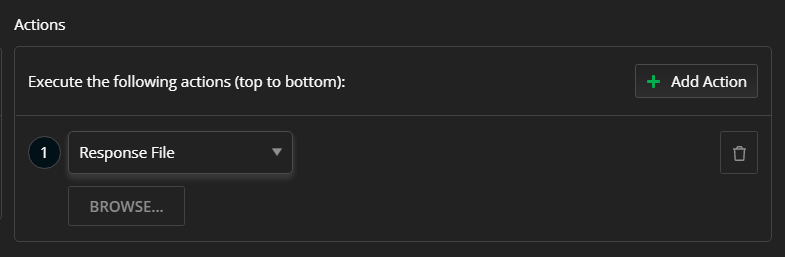
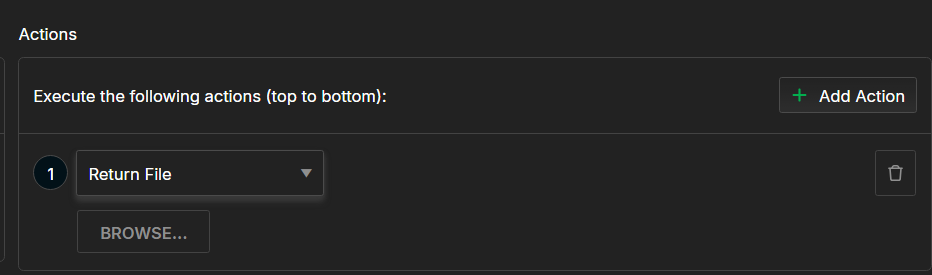
docs: breakpoints (#436)
* docs: breakpoints

* docs: improve content related to breakpoints

* Update knowledge-base/create-a-rule-to-disable-cache.md

* docs: regex update

* doc: extending the breakpoints articles

---------

diff --git a/modify-and-filter-traffic/breakpoints.md b/modify-and-filter-traffic/breakpoints.md
@@ -1,0 +1,107 @@
+---
+title: Using Breakpoints to Pause Traffic
+description: "Pausing network traffic through breakpoint actions in Fiddler Everywhere"
+slug: rulesbuilder-breakpoints
+publish: true
+position: 30
+---
+
+
+# Breakpoints in Fiddler Everywhere
+
+The **Rules** functionality in Fiddler Everywhere is a sophisticated tool that lets you virtually play with the ongoing traffic in any way possible. With its help, you can easily adjust the ongoing traffic per your requirements by matching all or specific sessions and consequentially applying specific actions that vary from simply highlighting and commenting entries (for easier inspection and analysis) to changing the content and behavior of HTTP Requests (before they reach the target server) or HTTP Responses (before they reach the client application).
+
+Being able to "hack" an HTTP session on the fly provides almost unlimited testing and development opportunities. This article will demonstrate some more complex actions that can be used while using the Fiddler's breakpoints rule action.
+
+
+## Using Breakpoints
+
+One of the most desired features was the ability to pause the execution of a session before it reaches the server or the client application. Fiddler Everywhere provides that option through the **Set Breakpoint** action and its two sub-actions **Before Sending a Request** and **Before Sending and Response**.
+
+Fiddler Everywhere stands between the client application (that sends a request and receives a response) and a server (that receives a request and returns a response). The breakpoint actions explicitly pause the forwarding of matched requests and responses. You can inspect the paused request/response or make complex changes by editing their HTTP Headers and Body through the **Raw** inspector.
+
+### Request Breakpoint
+
+Setting a breakpoint for HTTP request will pause the request before it reaches the target server. This allows you to modify and mock different request scenarios on the fly.
+
+To create a rule that sets a breakpoint for HTTP request, do the following:
+
+1. Select the **Rules** tab and create new rule through the **Add Rule** button.
+
+1. Add a condition or a set of conditions to match sessions.
+
+1. Add the action called **Set Breakpoint** and choose the sub-action **Before Sending a Request**.
+
+1. Click **Save** and then enable the **Rules** tab and the newly created rule.
+
+1. Start capturing traffic.
+
+The following steps demonstrate how the **Before Sending a Request** action works:
+
+1. The client application sends an HTTP request.
+
+1. The Fiddler Everywhere proxy receives the HTTP request and **pauses** it. At this moment, all sessions that match the condition will be paused. You can select a paused session, load its HTTP request through the **Raw** tab, and modify its HTTP headers or body.
+
+    ![Paused session with request breakpoint](../images/rules/advanced-rules-request-breakpoint.png)
+
+1. Once the inspection or modification of the session is completed, resume the request execution. Only at this point is the request forwarded to the server. The session will reach the server with its modified data.
+
+1. The server returns a response (received by Fiddler).
+
+1. Fiddler forwards the response to the client application.
+
+### Response Breakpoint
+
+Setting a breakpoint for HTTP response will pause the request before it reaches the client application. This allows you to modify and mock different response scenarios on the fly.
+
+To create a rule that sets a breakpoint for HTTP response, do the following:
+
+1. Select the **Rules** tab and create new rule through the **Add Rule** button.
+
+1. Add a condition or a set of conditions to match sessions.
+
+1. Add the action called **Set Breakpoint** and choose the sub-action **Before Sending a Response**.
+
+1. Click **Save** and then enable the **Rules** tab and the newly created rule.
+
+1. Start capturing traffic.
+
+The following steps demonstrate how the **Before Sending a Response** action works:
+
+1. The client application sends an HTTP request (received by Fiddler).
+
+1. Fiddler forwards the HTTP request to the server.
+
+1. The server returns a response (received by Fiddler).
+
+1. The Fiddler Everywhere proxy receives the HTTP response and **pauses** it. At this moment, all sessions that match the condition will be paused. Select a paused session, load its HTTP response through the **Raw** tab, and inspect or modify its HTTP headers or body.
+
+1. Once the inspection or modification of the session is completed, resume the response execution. Only at this point does the response go to the client application. The session will reach the client with its modified data.
+
+### Breakpoint Specifics
+
+The following considerations must be made while working with breakpoints:
+
+- An active rule that sets breakpoints applies only to newly captured traffic.
+- A breakpoint can be set with all matching conditions in the Rules Builder.
+- A session with a hit breakpoint or otherwise paused session will have a "Pause" icon in the Live Traffic grid.
+- A session with a hit breakpoint or otherwise paused session will have a "Paused" pill in the paused Inspector section (Request or Response inspector).
+- You can resume a paused session by clicking the "Paused" pill.
+- You can resume paused sessions through the "Resume Paused Sessions" option in the Live Traffic context menu.
+- A paused HTTP request or response can be edited only through the **Raw** inspector.
+
+While the breakpoints are compelling functionality,  the following limitations must be considered:
+
+- A response breakpoint will pause the forwarding from Fiddler's side. However, some client applications have additional caching or replay mechanisms that automatically replay the request if a response is not received within a specific time.
+- You can't modify requests and responses that use gzipped bodies.
+
+## Additional Rules Resources
+
+The breakpoints in Fiddler are only one of the exposed [actions]({%slug fiddler-rules-actions%}#actions) that you can use in combination with various [matching conditions]({%slug fiddler-rules-actions%}#conditions). Use the following online resources for additional insights and examples of what you can achieve using the Fiddler's Rules tab.
+
+- [Understanding the Matching Conditions and Final vs. Non-Final Actions]({%slug fiddler-rules-actions%})
+- [Example for using predefined actions in the Rules tab]({%slug fiddler-ar-actions%})
+- [Example for redirecting through the Rules tab]({%slug rulesbuilder-redirect-traffic%})
+- [Example for disabling caching through the Rules tab]({%slug rule-disable-caching%})
+- [Example for creating manual HTTP Responses]({%slug using-custom-responses%})
+- [Introducing the Rules tab (blog post)](https://www.telerik.com/blogs/introducing-new-rule-builder-fiddler-everywhere)

diff --git a/knowledge-base/final-and-non-final-actions.md b/knowledge-base/final-and-non-final-actions.md
@@ -13,7 +13,7 @@ The article lists and explains the supported matching [conditions](#conditions) 
 
 ## Conditions
 
-The **Rule Builder** can add and use single or multiple **conditions** needed to trigger different [**actions**](#actions). The conditions are logical structures with different statements whose numbers can vary between two and four. A statement field that handles text (string modifier) is case-insensitive by default (you can use the `Aa` button to change them to case-sensitive) and can be auto-completed with suggestions corresponding to the captured sessions.
+The **Rule Builder** can add and use single or multiple matching **conditions** needed to trigger different [**actions**](#actions). The conditions are logical structures with different statements whose numbers can vary between two and four. A statement field that handles text (string modifier) is case-insensitive by default (you can use the `Aa` button to change them to case-sensitive) and can be auto-completed with suggestions corresponding to the captured sessions.
 
 For more information, refer to the following list. 
 
@@ -312,6 +312,14 @@ Apart from returning files or predefined responses, a rule can perform the follo
             <td>Non-final</td>
         </tr>
         <tr>
+            <td><b>Set Breakpoint</b></td>
+            <td><b>Before Sending a Request</b> or <b>Before Sending a Response</b></td>
+            <td>n/a</td>
+            <td>n/a</td>
+            <td>Pauses the session before the sending request (to the server) or response (to the client). The action works only for newly established connections.</td>
+            <td>Non-final.</td>
+        </tr>
+        <tr>
             <td><b>Predefined Response</b></td>
             <td>Drop-down with <a href="https://docs.telerik.com/fiddler-everywhere/knowledge-base/using-ar-predefined-actions">predefined responses</a></td>
             <td>n/a</td>
@@ -388,7 +396,7 @@ Apart from returning files or predefined responses, a rule can perform the follo
             <td>n/a</td>
             <td>n/a</td>
             <td>n/a</td>
-            <td>Skips decryption for a matched session and shows only CONNECT tunnels. Only conditions for <b>Host, URL, Process, Client IP, HTTP Version, and Remote IP</b> can be used. The rule works only for newly established connections.</td>
+            <td>Skips decryption for a matched session and shows only CONNECT tunnels. Only conditions for <b>Host, URL, Process, Client IP, HTTP Version, and Remote IP</b> can be used. The action works only for newly established connections.</td>
             <td>Final </td>
         </tr>
         <tr>

diff --git a/knowledge-base/using-ar-predefined-actions.md b/knowledge-base/using-ar-predefined-actions.md
@@ -34,17 +34,6 @@ The **Actions** drop-down in the **Rules Builder** provides predefined options w
 
 The content of each predefined options is as follows:
 
-* `200 OK (Image/gif)`
-
-    ```HTTP
-    HTTP/1.1 200 OK
-    Date: Fri, 25 Jan 2013 16:49:29 GMT
-    FiddlerTemplate: True
-    Content-Length: 308
-    Content-Type: image/gif
-
-    GIF89a# #encoded string for a sample GIF follows here
-    ```
 
 * `200 OK (HTML)`
 
@@ -55,6 +44,18 @@ The content of each predefined options is as follows:
     Content-Length: 51
 
     This is a simple Fiddler-returned <B>HTML</B> page.
+    ```
+
+* `200 OK (Image/gif)`
+
+    ```HTTP
+    HTTP/1.1 200 OK
+    Date: Fri, 25 Jan 2013 16:49:29 GMT
+    FiddlerTemplate: True
+    Content-Length: 308
+    Content-Type: image/gif
+
+    GIF89a# #encoded string for a sample GIF follows here
     ```
 
 * `200 OK (Pixel)`
@@ -195,7 +196,7 @@ The content of each predefined options is as follows:
 
 The **Actions** drop-down of the **Rule Builder** provides an option to load your own custom DAT file with an entirely custom HTTP response:
 
-1. Scroll the drop-down **Actions** menu and select **Response file**.
+1. Scroll the drop-down **Actions** menu and select **Return file**.
 1. In the file selection window, load the DAT file with the custom HTTP response.
 1. Click **Save** to create or update the rule.
 
@@ -205,7 +206,7 @@ The **Actions** drop-down of the **Rule Builder** provides an option to load you
 
 Another option that the **Rule Builder** provides is to create the mocked custom HTTP response manually:
 
-1. Scroll the drop-down **Actions** menu and select **Manual Response**.
+1. Scroll the drop-down **Actions** menu and select **Return Manual Response**.
 1. Write the custom HTTP response in the text field.
 1. Click **Save** to create or update the rule.
 

diff --git a/modify-and-filter-traffic/modify-traffic-with-rules.md b/modify-and-filter-traffic/modify-traffic-with-rules.md
@@ -23,7 +23,7 @@ OR
 
 1. Select the **Rules** tab.
 
-The **Rules** tab loads, and you can create, enable, and prioritize rules in the rules queue.
+The **Rules** tab loads, and you can create, enable, and ranks rules in the rules queue.
 
 ## Using Rules Builder
 
@@ -71,9 +71,11 @@ To modify captured session through the **Rules**:
 
 Fiddler automatically adds the newly created rule on the top of the [**Rules Queue**]({%slug modify-traffic-get-started%}#rules-queue), giving it immediate execution priority (you can demote or promote each rule in the queue). The rule is also automatically activated (the rule switch toggles on), so any new requests that match the rule will be affected by it. You can also replay the original session through its context menu (**Replay > Reissue Requests**).
 
-### Additional Rules Resources
+## Additional Rules Resources
 
+- [Using Breakpoints]({%slug rulesbuilder-breakpoints%})
 - [Understanding the Matching Conditions and Final vs. Non-Final Actions]({%slug fiddler-rules-actions%})
-- [Using predefined actions in the Rules tab]({%slug fiddler-ar-actions%})
-- [Redirecting through the Rules tab]({%slug rulesbuilder-redirect-traffic%})
+- [Example for using predefined actions in the Rules tab]({%slug fiddler-ar-actions%})
+- [Example for redirecting through the Rules tab]({%slug rulesbuilder-redirect-traffic%})
+- [Example for disabling caching through the Rules tab]({%slug rule-disable-caching%})
 - [Returning Custom HTTP Responses]({%slug using-custom-responses%})

diff --git a/knowledge-base/live-traffic-pane.md b/knowledge-base/live-traffic-pane.md
@@ -276,6 +276,11 @@ The following table displays the icons which **Live Traffic** grid supports for 
     </tbody>
 </table>
 
+### Breakpoint Indicators
+
+A paused session or otherwise a session that hit [an active breakpoint]({%slug rulesbuilder-breakpoints%}) will have a special "Paused" icon in the Live Traffic grid.
+
+
 ### Certificate Indicators
 
 Each [list icon](#list-icons) can contain an additional triangle warning that indicates different server certificate issues.
@@ -452,6 +457,7 @@ The context menu for the **Live Traffic** grid exposes actions you can apply for
 
 - [Replaying](#replaying) (**Replay**)
 - [Editing in the Composer](#editing-in-the-composer) (**Edit in Composer**)
+- [Resuming Paused Sessions](#resuming-paused-sessions) (**Resume Paused Sessions**)
 - [Adding New Rules](#adding-new-rules) (**Add New Rule**)
 - [Saving](#saving) (**Save**)
 - [Exporting](#exporting) (**Export**)
@@ -475,6 +481,10 @@ To replay previously captured sessions, use the **Replay** context menu option, 
 
 The **Edit in Composer** context menu option loads the selected request in a new composer window where it can be edited, saved for later usage and sharing, and reissued.
 
+
+### Resuming Paused Sessions
+
+To resume the execution of sessions that hit [active breakpoints]({%slug rulesbuilder-breakpoints%}), use the **Resume Paused Sessions** context menu option, which can be accessed with the keyboard by pressing `F5`.
 
 ### Adding New Rules
 

diff --git a/knowledge-base/redirecting-with-rulesbuilder.md b/knowledge-base/redirecting-with-rulesbuilder.md
@@ -28,19 +28,18 @@ To accomplish this scenario, we can use a basic redirect or a rule, which utiliz
 
 To redirect traffic from one server to another, implement a basic redirect rule.
 
-```JS
-Match: https://docs.telerik.com/fiddler-everywhere/introduction
-Action: http://localhost:4000/fiddler-everywhere/introduction
-```
+**Match Condition**: URL > Contains > `https://docs.telerik.com/fiddler-everywhere/introduction`
+**Action**: Update URL > Set Value > `http://localhost:4000/fiddler-everywhere/introduction`
 
 ### Redirecting with Regex
 
-To create more complex redirect rules, use the Fiddler Everywhere regex support for creating **Match** rules and **Actions**.
+To create more complex redirect rules, use the Fiddler Everywhere regex support for creating **Match Conditions** rules and **Actions**.
 
-```JS
-Match: regex:(.*)docs.telerik.com/(.*)
-Action: http://localhost:4000/$2
-```
+**Match Condition**: URL > Regular Expression > `(.*)docs.telerik.com/(.*)`
+**Action**: Update URL > Regular Expression > Find `(.*)docs.telerik.com/(.*)` + Replace `http://localhost:4000/$2`
+
+![Creating a rule that uses regular expression to change an URL](../images/kb/regex/rule-with-regex.png)
+
 
 In the previous example, two regex variables are automatically created. The second one will have as its value everything that comes after the last slash (`/`).
 

diff --git a/modify-and-filter-traffic/organizing-rules.md b/modify-and-filter-traffic/organizing-rules.md
@@ -69,7 +69,10 @@ The group options allow you to further interact with the group's rules:
 ## Additional Resources
 
 - [Modifying HTTPS Traffic]({%slug modify-traffic-get-started%})
-- [Using Predefined Actions]({%slug fiddler-ar-actions%})
-- [Understanding the Matching Conditions and Final vs. Non-Final Actions]({%slug fiddler-rules-actions%})
-- [Creating Manual HTTP Responses]({%slug using-custom-responses%})
+- [Using Breakpoints]({%slug rulesbuilder-breakpoints%})
+- [Example for using predefined actions in the Rules tab]({%slug fiddler-ar-actions%})
+- [Example for redirecting through the Rules tab]({%slug rulesbuilder-redirect-traffic%})
+- [Example for disabling caching through the Rules tab]({%slug rule-disable-caching%})
+- [Example for creating manual HTTP Responses]({%slug using-custom-responses%})
+- [Understanding the matching conditions and Final vs. Non-Final Actions]({%slug fiddler-rules-actions%})
 - [Introducing the Rules tab (blog post)](https://www.telerik.com/blogs/introducing-new-rule-builder-fiddler-everywhere)

diff --git a/knowledge-base/create-a-rule-to-disable-cache.md b/knowledge-base/create-a-rule-to-disable-cache.md
@@ -1,6 +1,6 @@
 ---
 title: Create a Rule to Disable Caching
-description: "Learn how to create a rule in Fiddler Everywhere that disables caching of all pages and resources."
+description: "create a rule in Fiddler Everywhere to disable caching of pages and resources."
 type: how-to
 slug: rule-disable-caching
 res_type: kb

diff --git a/modify-and-filter-traffic/filter-traffic.md b/modify-and-filter-traffic/filter-traffic.md
@@ -3,7 +3,7 @@ title: Filtering Traffic
 description: "Learn how to filter the captured traffic to minimize the output in Live Traffic when working with the Fiddler Everywhere application."
 slug: how-to-filter-traffic
 publish: true
-position: 30
+position: 40
 previous_url: /knowledge-base/filter-traffic
 ---
 
